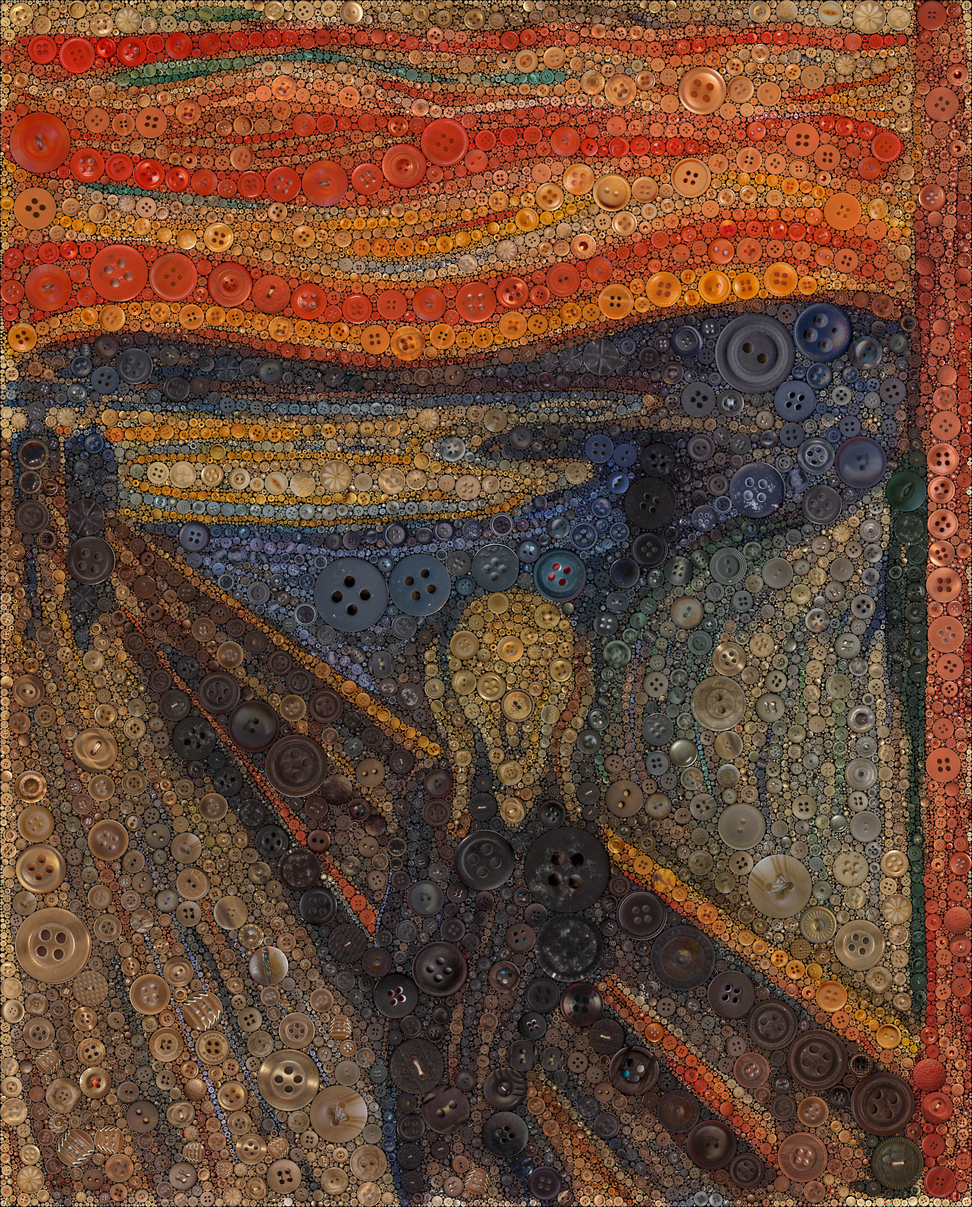
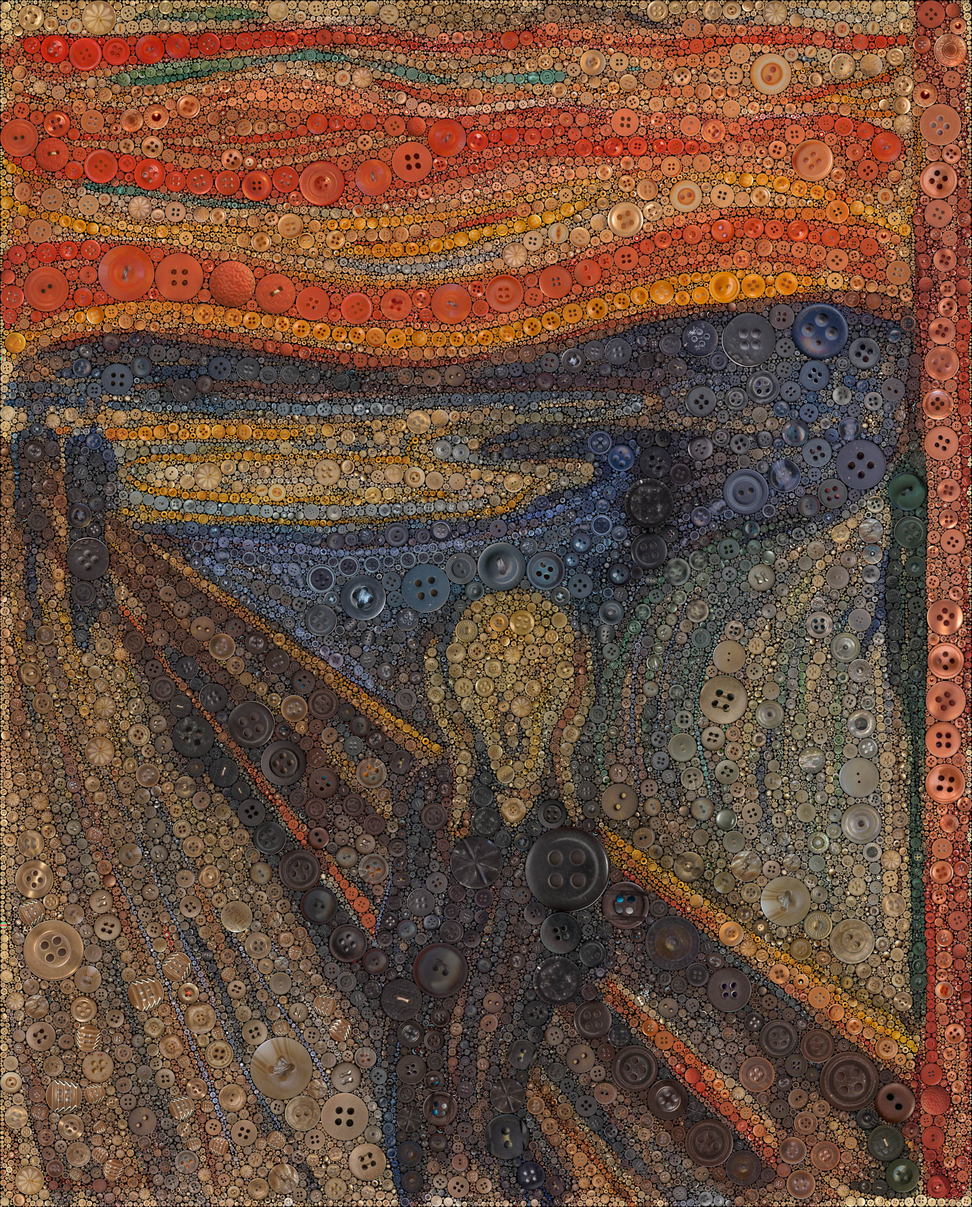
Update scream image

diff --git a/source/test.m b/source/test.m
@@ -30,8 +30,8 @@ min_distance = 4;
 for i = 1:max(L(:))
     mask = L == i;
     
-    d = 32;
-    radius = 8;
+    d = 16;
+    radius = 4;
 
     mask = bwareaopen(~mask,d*d);
     mask = bwareaopen(~mask,d*d);

diff --git a/README.md b/README.md
@@ -3,7 +3,7 @@
 ### The Scream - *Edvard Munch*
 
 <div about="output_images/the-scream.jpg">
-  <img src="output_images/the-scream.jpg" alt title="31361 buttons" />
+  <img src="output_images/the-scream.jpg" alt title="38888 buttons" />
   <a rel="license" href="https://creativecommons.org/licenses/by-nc-sa/4.0/"></a>
 </div>
 
